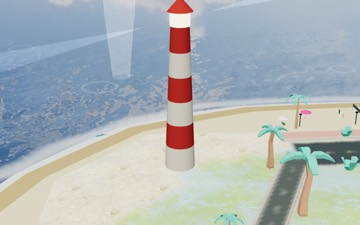
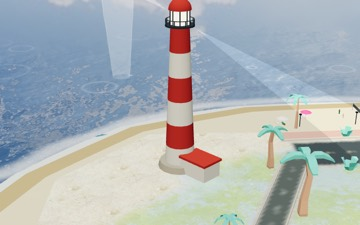
feat(city): refined arch, lighthouse, stadium and observation tower models
User: refine these building models. Arch: plinth, piers with paired engaged columns,
semicircular vault and archivolt, cornice, attic with blank plaque, abstract top group.
Lighthouse: stone base, keeper's hut, gallery with railing, glazed lantern with mullions,
dome and vent. Stadium: pitch with lines, inner lower stands, cantilevered roof ring,
scoreboard. Observation tower: entrance pavilion, lift shaft strip, glazed pod with
mullions, upper ring. Thumbnails refreshed. verify:city 15/15.

diff --git a/apps/agent-city/ui/src/engine/cityParts.ts b/apps/agent-city/ui/src/engine/cityParts.ts
@@ -1061,6 +1061,18 @@ export class CityParts {
           const tangent = Math.atan2(19.5 * Math.cos(t), -27 * Math.sin(t));
           box(lx, 0, lz, 10.5, index % 4 === 0 ? 11 : 8, 5.5, index % 4 === 0 ? "#c05a4f" : "#dcd8ca", -tangent);
         }
+        // 细化（用户「请细化这些建筑模型」）：球场草坪与白线、内圈低看台、看台上方悬挑顶棚、端头记分牌。
+        box(0, 0, 0, 34, 0.3, 21, "#4f8a4a");
+        box(0, 0.3, 0, 34, 0.04, 0.25, "#f2f2ea"); box(-16.8, 0.3, 0, 0.25, 0.04, 21, "#f2f2ea"); box(16.8, 0.3, 0, 0.25, 0.04, 21, "#f2f2ea");
+        box(0, 0.3, -10.4, 34, 0.04, 0.25, "#f2f2ea"); box(0, 0.3, 10.4, 34, 0.04, 0.25, "#f2f2ea");
+        for (let index = 0; index < segments; index += 1) {
+          const t = ((index + 0.5) / segments) * Math.PI * 2;
+          const tangent = Math.atan2(15 * Math.cos(t), -22 * Math.sin(t));
+          box(Math.cos(t) * 22, 0, Math.sin(t) * 15, 7.5, 3.6, 3.2, index % 2 ? "#3f6f9a" : "#e0dccd", -tangent); // 内圈低看台
+          const tr = Math.atan2(19.5 * Math.cos(t), -27 * Math.sin(t));
+          box(Math.cos(t) * 25.5, 12, Math.sin(t) * 18.2, 10.5, 0.4, 7.5, "#f4f2ec", -tr);                       // 悬挑顶棚
+        }
+        box(0, 12.5, -21.5, 12, 5, 0.8, "#2a3036"); glow(0, 13.2, -21.05, 10.8, 3.6, 0.1, "#7fe3ff");            // 记分牌
         for (const [lx, lz] of [[-30, -22], [30, -22], [-30, 22], [30, 22]]) {
           cyl(lx, 0, lz, 0.55, 24, "#9aa0a0");
           glow(lx, 24, lz, 4, 1.4, 2.4, "#fff3c4"); // 泛光灯塔灯头：夜里发光
@@ -1072,9 +1084,16 @@ export class CityParts {
           glow(Math.cos(t) * 27, index % 4 === 0 ? 11.1 : 8.1, Math.sin(t) * 19.5, 10.5, 0.22, 0.22, index % 2 === 0 ? "#38e8ff" : "#ff4fd8", -tangent);
         }
       } else if (site.kind === "tower") {
+        // 细化：入口门厅、塔身电梯井竖条、深色玻璃观景舱（竖棂）、上层小观景环。
         cyl(0, 0, 0, 6.5, 3.2, "#c4c7c6");
+        box(0, 0, 7.2, 8, 4.2, 5, "#e4e1d8"); box(0, 4.2, 7.2, 9, 0.4, 6, "#7fb4c2");
         cyl(0, 3.2, 0, 2.3, 42, "#cfd3d6");
-        cyl(0, 42, 0, 6.4, 3.8, "#eaf0f2");
+        box(0, 3.2, 2.2, 0.9, 38.8, 0.5, "#9fb4bd");
+        cyl(0, 42, 0, 6.4, 0.9, "#eaf0f2");
+        cyl(0, 42.9, 0, 6.1, 2.2, "#2f4552");
+        for (let k = 0; k < 12; k += 1) { const t = (k / 12) * Math.PI * 2; box(Math.cos(t) * 6.15, 42.9, Math.sin(t) * 6.15, 0.25, 2.2, 0.25, "#eaf0f2"); }
+        cyl(0, 45.1, 0, 6.6, 0.7, "#eaf0f2");
+        cyl(0, 52, 0, 3, 1.2, "#eaf0f2");
         cyl(0, 45.8, 0, 4.2, 2.2, "#7fb4c2");
         cyl(0, 48, 0, 0.45, 15, "#d45a4a");
         // 观景台与塔身腰线霓虹 + 天线红色航空灯。
@@ -1551,10 +1570,33 @@ export class CityParts {
         group.add(floorMesh);
         this.disposables.push(floorGeometry, floorMaterial);
       } else if (landmark.kind === "arch") {
+        // 凯旋门（细化）：基座 → 两侧墩身（每面一对附柱）→ 半圆拱券开口 → 檐口 → 顶楼（attic）→ 顶部雕像组。
+        // 曾是两根方柱 + 横梁（用户：「请细化这些建筑模型」）。全部为通用古典语汇，不参照具体建筑。
         const h = Math.min(cap, 26);
-        for (const side of [-1, 1]) mesh(new THREE.BoxGeometry(5, h, 7).translate(0, h / 2, 0), white, group, side * 8, 0, 0);
-        mesh(new THREE.BoxGeometry(21, 6, 7.4).translate(0, 3, 0), white, group, 0, h, 0);
-        mesh(new THREE.BoxGeometry(22, 1, 8).translate(0, 0.5, 0), material("#d9d3c2"), group, 0, h + 6, 0);
+        const stone = material("#ece5d6"); const trim = material("#d6ccb7"); const bronze = material("#8a7a52");
+        const W = 26; const D = 9; const pierW = 7.5; const openW = W - pierW * 2; const springY = h * 0.55;
+        mesh(new THREE.BoxGeometry(W + 3, 1.6, D + 3).translate(0, 0.8, 0), trim, group, 0, 0, 0);            // 基座
+        for (const side of [-1, 1]) {
+          const cx = side * (openW / 2 + pierW / 2);
+          mesh(new THREE.BoxGeometry(pierW, h, D).translate(0, h / 2, 0), stone, group, cx, 1.6, 0);          // 墩身
+          for (const face of [-1, 1]) for (const k of [-1, 1]) {                                              // 每面一对附柱
+            mesh(new THREE.CylinderGeometry(0.55, 0.6, h - 2.4, 10).translate(0, (h - 2.4) / 2, 0), trim, group, cx + k * 2.4, 2.8, face * (D / 2 + 0.35));
+            mesh(new THREE.BoxGeometry(1.6, 0.8, 1.2).translate(0, 0.4, 0), trim, group, cx + k * 2.4, 1.6, face * (D / 2 + 0.35));
+          }
+          mesh(new THREE.BoxGeometry(3.4, 4.2, 0.4), bronze, group, cx, springY + 3, D / 2 + 0.25);          // 浮雕板
+        }
+        // 拱券：开口上方实体，减去半圆——用半圆柱面（内侧）+ 两侧拱肩块近似。
+        mesh(new THREE.BoxGeometry(openW, h - springY - openW / 2, D).translate(0, (h - springY - openW / 2) / 2, 0), stone, group, 0, 1.6 + springY + openW / 2, 0);
+        const vault = new THREE.CylinderGeometry(openW / 2, openW / 2, D, 24, 1, true, Math.PI / 2, Math.PI).rotateX(Math.PI / 2);
+        const vaultMesh = mesh(vault, material("#e2dac8"), group, 0, 1.6 + springY, 0);
+        (vaultMesh.material as THREE.MeshLambertMaterial).side = THREE.DoubleSide;
+        mesh(new THREE.TorusGeometry(openW / 2 + 0.3, 0.35, 6, 24, Math.PI), trim, group, 0, 1.6 + springY, D / 2 + 0.05);        // 拱圈线脚
+        mesh(new THREE.BoxGeometry(W + 1.6, 1.1, D + 1.6).translate(0, 0.55, 0), trim, group, 0, h + 1.6, 0); // 檐口
+        mesh(new THREE.BoxGeometry(W - 2, 5, D - 1).translate(0, 2.5, 0), stone, group, 0, h + 2.7, 0);       // 顶楼
+        mesh(new THREE.BoxGeometry(W - 6, 2.2, 0.3), bronze, group, 0, h + 5.2, (D - 1) / 2 + 0.2);           // 题铭板（无文字）
+        mesh(new THREE.BoxGeometry(W - 1, 0.7, D).translate(0, 0.35, 0), trim, group, 0, h + 7.7, 0);
+        mesh(new THREE.BoxGeometry(5, 2.2, 3).translate(0, 1.1, 0), bronze, group, 0, h + 8.4, 0);            // 顶部雕像组（抽象体块）
+        mesh(new THREE.ConeGeometry(1.1, 3.4, 6).translate(0, 1.7, 0), bronze, group, 0, h + 10.6, 0);
       } else if (landmark.kind === "sail-opera") {
         mesh(new THREE.BoxGeometry(46, 3, 26).translate(0, 1.5, 0), material("#d9d3c2"), group, 0, 0, 0);
         // 帆：半个穹顶（半球再切一半）拉成薄而高的壳，开口朝前；双面材质（开口里也要看得见内壁）。
@@ -1574,8 +1616,23 @@ export class CityParts {
           const r0 = 3.4 - (i / bands) * 1.4; const r1 = 3.4 - ((i + 1) / bands) * 1.4;
           mesh(new THREE.CylinderGeometry(r1, r0, h / bands, 14).translate(0, h / bands / 2, 0), i % 2 ? red : white, group, 0, (i * h) / bands, 0);
         }
-        mesh(new THREE.CylinderGeometry(2.2, 2.2, 3, 10).translate(0, 1.5, 0), material("#fff2c0", 1.5), group, 0, h, 0);
-        mesh(new THREE.ConeGeometry(2.8, 3, 10).translate(0, 1.5, 0), red, group, 0, h + 3, 0);
+        // 细化：石砌基座 + 守塔人小屋、塔顶环形观景廊（廊板 + 栏杆立柱）、玻璃灯室（竖棂）与穹顶通风帽。
+        mesh(new THREE.CylinderGeometry(4.6, 5, 1.6, 16).translate(0, 0.8, 0), material("#b9b2a2"), group, 0, -0.2, 0);
+        mesh(new THREE.BoxGeometry(7, 3.6, 5).translate(0, 1.8, 0), white, group, 6.2, 0, 0);
+        mesh(new THREE.BoxGeometry(7.6, 0.5, 5.6).translate(0, 0.25, 0), red, group, 6.2, 3.6, 0);
+        mesh(new THREE.CylinderGeometry(3.1, 3.1, 0.35, 18).translate(0, 0.17, 0), material("#3c4650"), group, 0, h, 0);   // 观景廊板
+        for (let k = 0; k < 16; k += 1) {
+          const t = (k / 16) * Math.PI * 2;
+          mesh(new THREE.BoxGeometry(0.12, 1.1, 0.12).translate(0, 0.55, 0), material("#3c4650"), group, Math.cos(t) * 2.95, h + 0.35, Math.sin(t) * 2.95);
+        }
+        mesh(new THREE.TorusGeometry(2.95, 0.07, 4, 32).rotateX(Math.PI / 2), material("#3c4650"), group, 0, h + 1.45, 0);
+        mesh(new THREE.CylinderGeometry(2, 2, 3, 12).translate(0, 1.5, 0), material("#fff2c0", 1.5), group, 0, h + 0.35, 0);
+        for (let k = 0; k < 8; k += 1) {
+          const t = (k / 8) * Math.PI * 2;
+          mesh(new THREE.BoxGeometry(0.14, 3, 0.14).translate(0, 1.5, 0), material("#2d343b"), group, Math.cos(t) * 2.02, h + 0.35, Math.sin(t) * 2.02);
+        }
+        mesh(new THREE.SphereGeometry(2.4, 14, 8, 0, Math.PI * 2, 0, Math.PI / 2), red, group, 0, h + 3.35, 0);
+        mesh(new THREE.CylinderGeometry(0.25, 0.35, 1.4, 8).translate(0, 0.7, 0), material("#2d343b"), group, 0, h + 5.6, 0);
         if (neon) {
           // 旋转光束：两束对向的加色锥，绕竖轴转（进 bloom）。
           const beamMaterial = new THREE.MeshBasicMaterial({ color: new THREE.Color("#fff2c0").multiplyScalar(1.6), transparent: true, opacity: 0.08, depthWrite: false, blending: THREE.AdditiveBlending, toneMapped: false });
